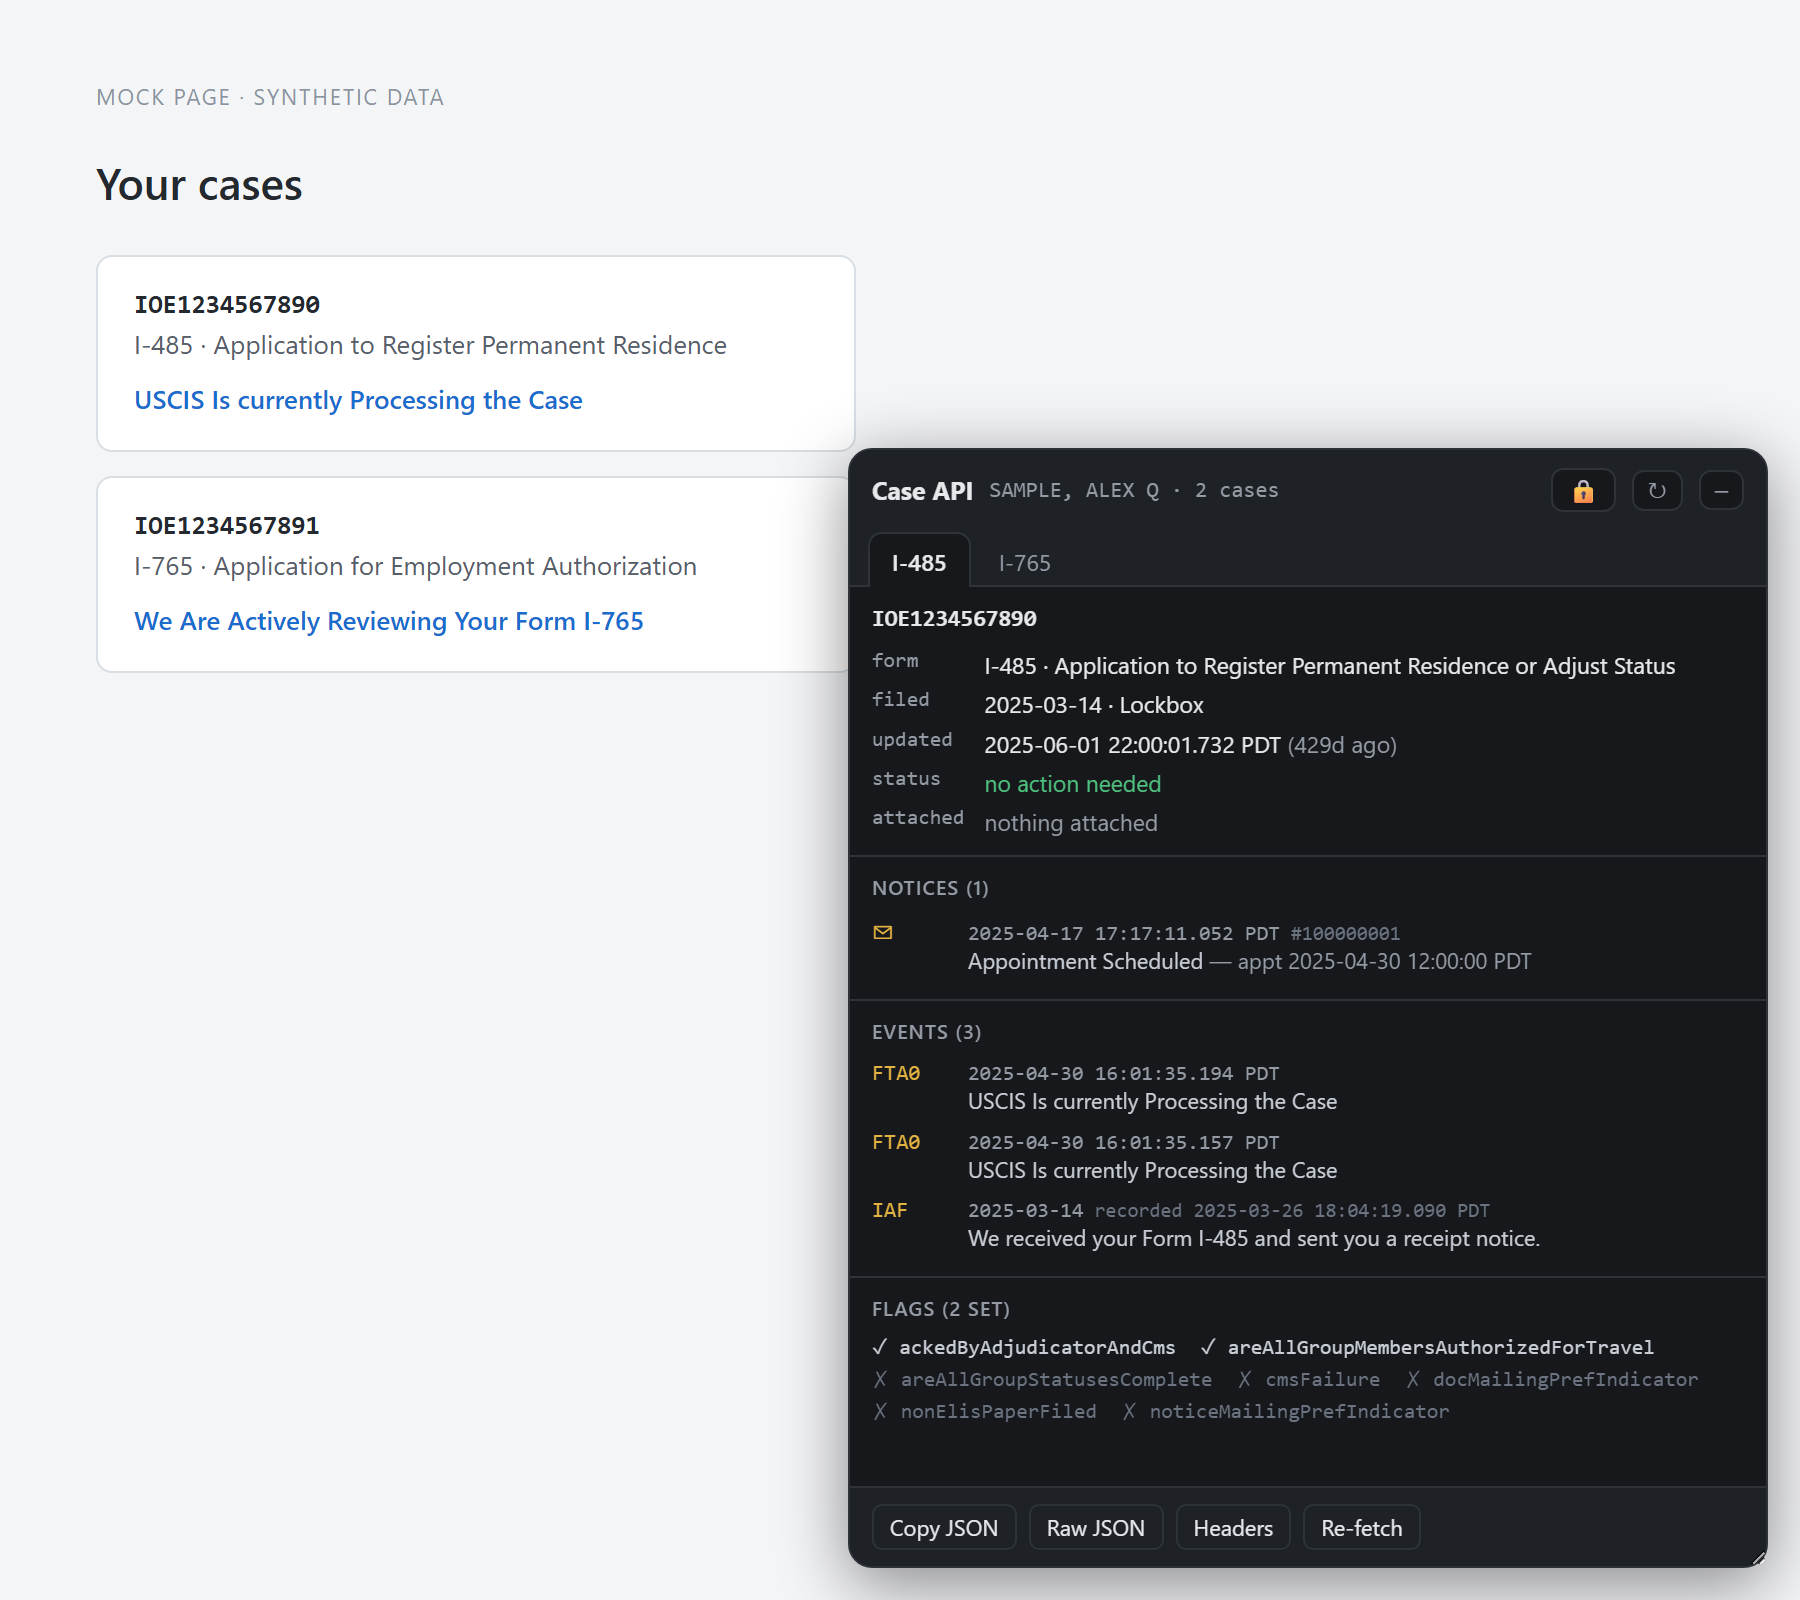
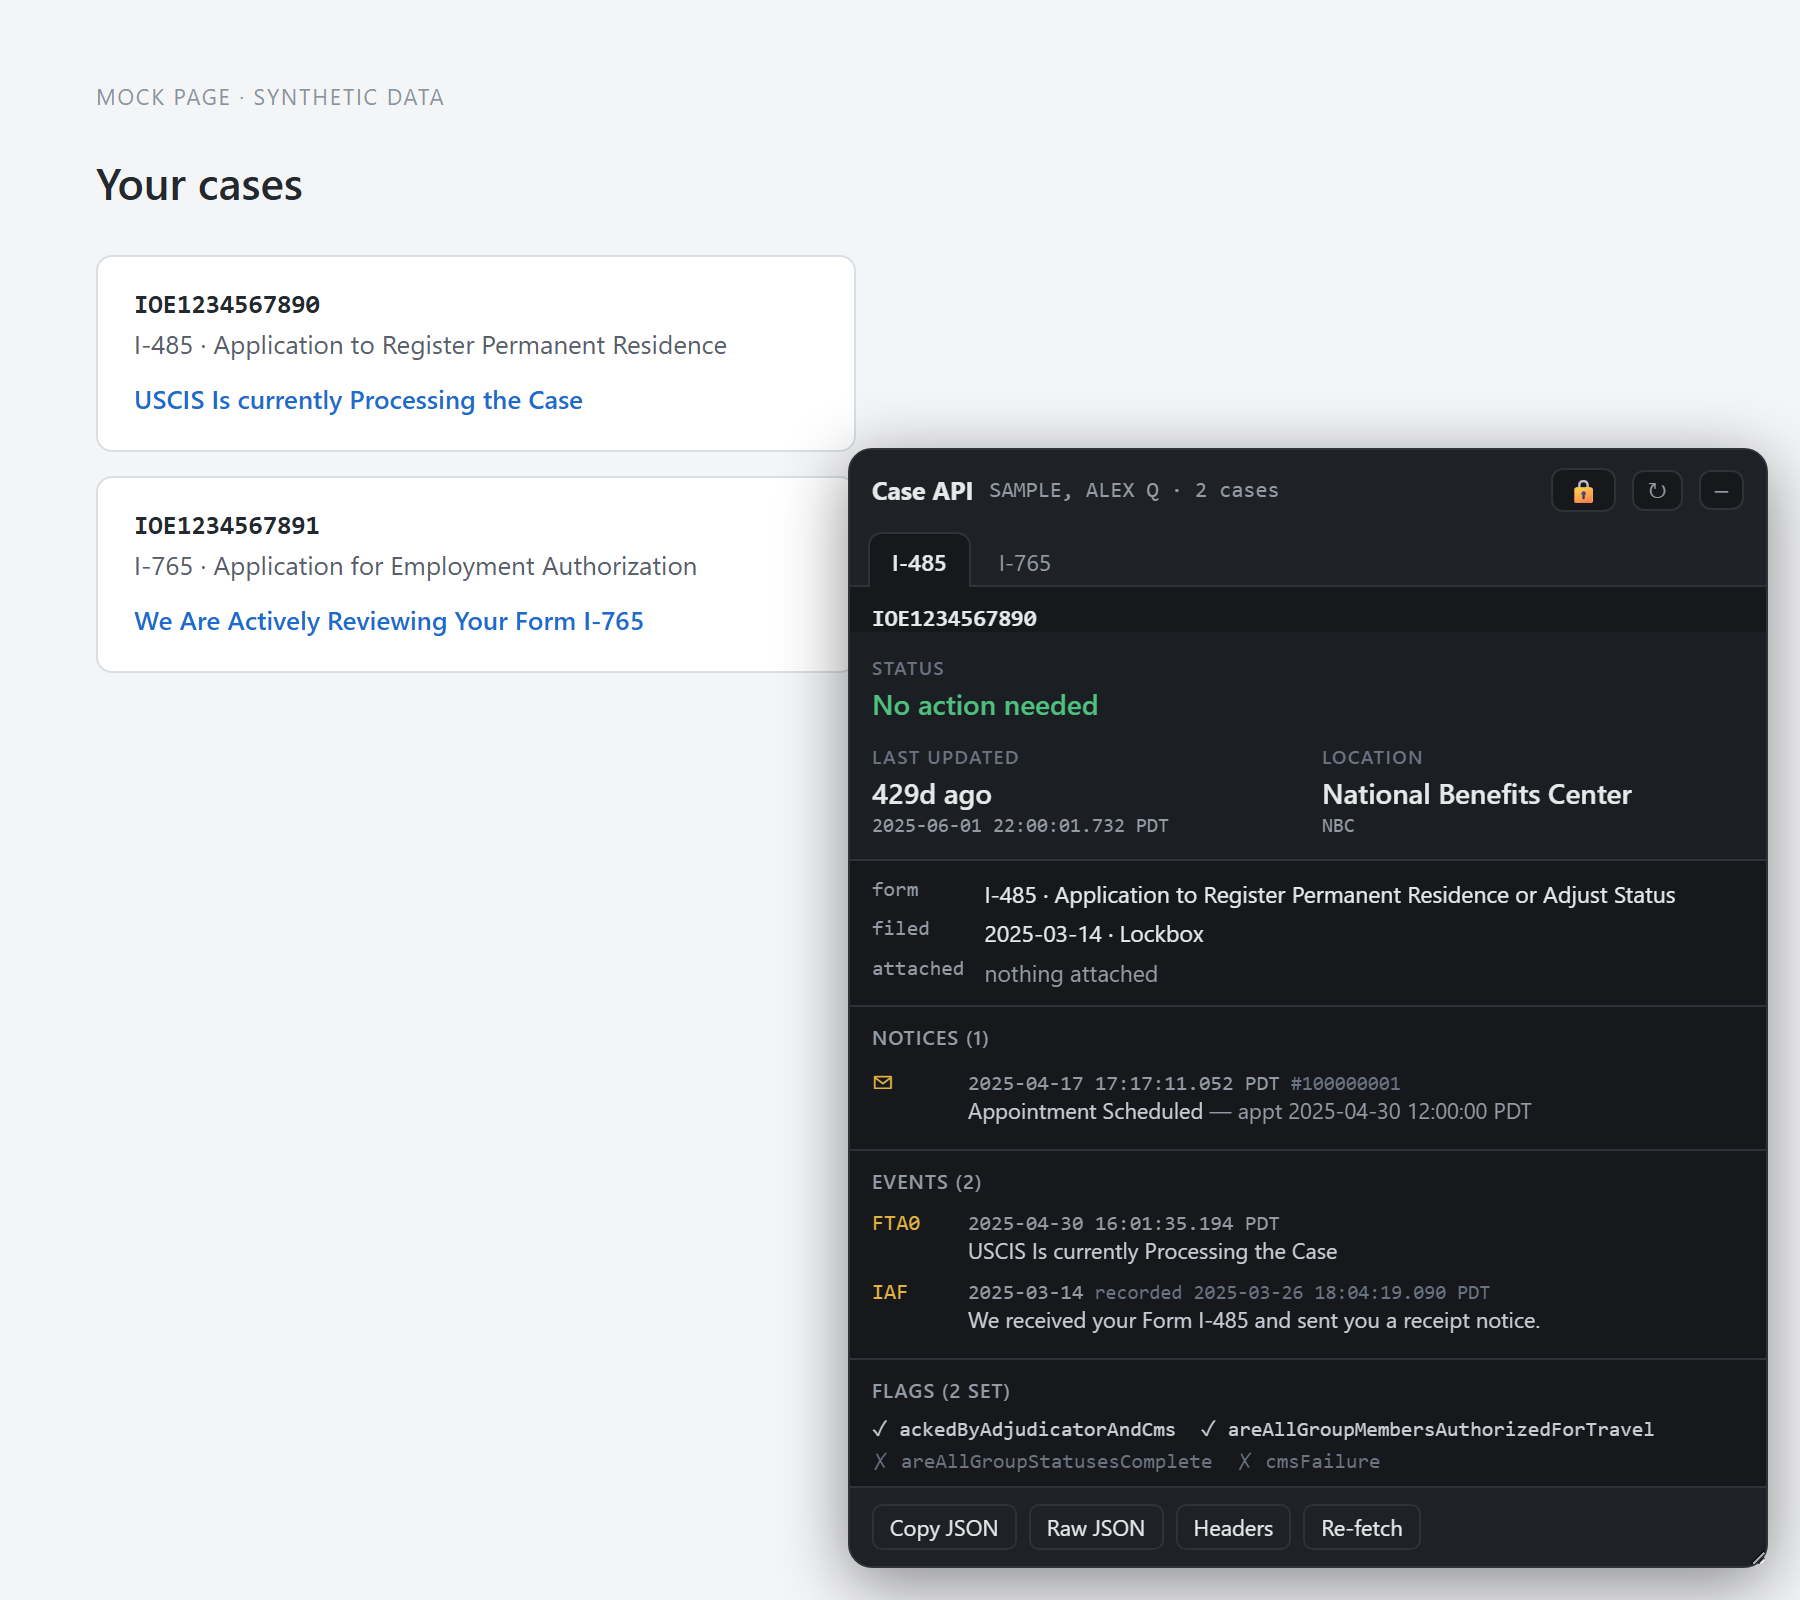
Add case location and promote the three headline fields
/cases carries no location. case_status does, as jurisdiction and
jurisdictionDescription, and the page fetches it anyway - so mine the office
from there alongside the existing action-code labels, keyed per receipt.

Status, Last updated and Location now sit in their own block above the detail
grid at 14px rather than as rows among many:

- Status leads with plain wording and colour, with closed/premium beneath
- Last updated leads with the relative age, exact timestamp beneath
- Location shows the title-cased office name with its code beneath

Location is omitted entirely when the payload has no jurisdiction, and Last
updated spans the full width in that case rather than leaving a gap.

Changed region(s): [[0.4667, 0.4062, 0.9333, 0.9375], [0.4667, 0.75, 0.4978, 0.7812]]

diff --git a/panel.js b/panel.js
@@ -135,6 +135,24 @@
       }
       .st.bad { color: #ff7b72; background: rgba(255,123,114,.12); }
 
+      .keyfacts {
+        display: grid; grid-template-columns: 1fr 1fr; gap: 11px 14px;
+        padding: 11px; border-bottom: 1px solid #2e333a; background: #1b1e23;
+      }
+      .kf { min-width: 0; }
+      .kf.wide { grid-column: 1 / -1; }
+      .kf .k {
+        font: 600 9.5px system-ui, sans-serif; letter-spacing: .07em;
+        text-transform: uppercase; color: #6b7480; margin-bottom: 3px;
+      }
+      .kf .v { font-size: 14px; font-weight: 600; color: #e6e8ea; line-height: 1.25; }
+      .kf .v.good { color: #4fc07d; }
+      .kf .v.warn { color: #e3b341; }
+      .kf .sub {
+        font: 10px ui-monospace, Consolas, monospace; color: #949ba5; margin-top: 2px;
+        overflow-wrap: anywhere;
+      }
+
       .kv {
         display: grid; grid-template-columns: auto 1fr; gap: 3px 10px;
         margin: 0; padding: 8px 11px; font-size: 11.5px;
@@ -212,6 +230,70 @@
     return n;
   };
 
+  // The three things people actually check — whether anything is needed from
+  // them, how long since the case moved, and which office holds it — get their
+  // own block above the detail grid rather than being one row among many.
+  function keyFacts(s) {
+    const wrap = el("div", "keyfacts");
+
+    // Tone is passed explicitly rather than inferred from the class string —
+    // inferring it silently lost the colour as soon as a layout class was added.
+    const cell = ({ cls = "", label, value, sub, title, tone = "" }) => {
+      const c = el("div", `kf ${cls}`.trim());
+      c.appendChild(el("div", "k", label));
+      c.appendChild(el("div", `v ${tone}`.trim(), value));
+      if (sub) c.appendChild(el("div", "sub", sub));
+      if (title) c.title = title;
+      return c;
+    };
+
+    const extras = [];
+    if (s.closed) extras.push("closed");
+    if (s.premium) extras.push("premium processing");
+    wrap.appendChild(
+      cell({
+        cls: "wide",
+        label: "Status",
+        value: s.actionRequired ? "Action required" : "No action needed",
+        sub: extras.join(" · "),
+        tone: s.actionRequired ? "warn" : "good",
+      })
+    );
+
+    const office = codes.office(s.receipt);
+    const hasOffice = !!(office && (office.name || office.code));
+
+    if (s.updated) {
+      const exact = F.stamp(s.updatedStamp) || s.updated;
+      const ago = F.daysAgo(s.updatedStamp || s.updated);
+      wrap.appendChild(
+        cell({
+          cls: hasOffice ? "" : "wide",
+          label: "Last updated",
+          value: ago || exact,
+          sub: ago ? exact : "",
+          title: s.updatedStamp || "",
+        })
+      );
+    }
+
+    // /cases carries no location; the office comes from case_status, which the
+    // page fetches anyway.
+    if (hasOffice) {
+      wrap.appendChild(
+        cell({
+          cls: s.updated ? "" : "wide",
+          label: "Location",
+          value: office.name || office.code,
+          sub: office.name && office.code ? office.code : "",
+          title: office.raw,
+        })
+      );
+    }
+
+    return wrap;
+  }
+
   function kvBlock(s) {
     const dl = el("dl", "kv");
     const add = (k, node) => {
@@ -230,21 +312,6 @@
       if (s.filedStamp) dd.title = s.filedStamp;
       add("filed", dd);
     }
-    if (s.updated) {
-      const dd = el("dd", null, F.stamp(s.updatedStamp) || s.updated);
-      const ago = F.daysAgo(s.updatedStamp || s.updated);
-      if (ago) dd.appendChild(el("span", "dim", `  (${ago})`));
-      if (s.updatedStamp) dd.title = s.updatedStamp;
-      add("updated", dd);
-    }
-
-    const flags = el("dd");
-    flags.appendChild(
-      el("span", s.actionRequired ? "warn" : "good", s.actionRequired ? "action required" : "no action needed")
-    );
-    if (s.closed) flags.appendChild(el("span", "dim", " · closed"));
-    if (s.premium) flags.appendChild(el("span", "dim", " · premium"));
-    add("status", flags);
 
     const c = s.counts;
     const bits = [];
@@ -410,6 +477,7 @@
     body.appendChild(chead);
 
     if (s) {
+      body.appendChild(keyFacts(s));
       body.appendChild(kvBlock(s));
       const n = noticesBlock(s);
       if (n) body.appendChild(n);

diff --git a/format.js b/format.js
@@ -102,17 +102,34 @@ globalThis.USCISFmt = (() => {
     return `${days}d ago`;
   };
 
-  // USCIS ships the human wording for its own action codes inside case_status —
-  // currentActionCode/statusTitle and historicalCaseStatuses[].actionCode. Mine
-  // those so the raw eventCodes in /cases can be labelled without guesswork.
-  // case_status itself is never displayed; it's only a source of receipts and
-  // of these labels.
+  // Office names arrive shouting ("NATIONAL BENEFITS CENTER"). Title-case the
+  // words but leave short tokens alone so centre codes like NBC or TSC survive.
+  const SMALL_WORDS = new Set(["of", "the", "and", "for", "at", "in", "on"]);
+  const titleCase = (s) =>
+    String(s)
+      .toLowerCase()
+      .split(/\s+/)
+      .filter(Boolean)
+      .map((w, i) => {
+        if (SMALL_WORDS.has(w)) return i === 0 ? w[0].toUpperCase() + w.slice(1) : w;
+        if (w.length <= 3) return w.toUpperCase();
+        return w[0].toUpperCase() + w.slice(1);
+      })
+      .join(" ");
+
+  // case_status is never displayed, but it is the only place two things live:
+  //   * the human wording for USCIS's own action codes (currentActionCode /
+  //     statusTitle, and historicalCaseStatuses[].actionCode / statusTitle), so
+  //     the raw eventCodes in /cases can be labelled without guesswork
+  //   * jurisdiction / jurisdictionDescription — the office handling the case,
+  //     which /cases does not return at all
   //
-  // Keyed per receipt as well as globally: the same code can carry form-specific
-  // wording, and a single flat map would let one case's text overwrite another's.
+  // Labels are keyed per receipt as well as globally: the same code can carry
+  // form-specific wording, and a flat map would let one case overwrite another.
   const codeMapFrom = (captures) => {
     const byReceipt = {};
     const byCode = {};
+    const offices = {};
     for (const c of captures || []) {
       if (!/\/case_status\//.test(c.url || "")) continue;
       const d = unwrap(c.body);
@@ -125,11 +142,20 @@ globalThis.USCISFmt = (() => {
       };
       put(d.currentActionCode, d.statusTitle);
       for (const h of d.historicalCaseStatuses || []) put(h.actionCode, h.statusTitle);
+
+      if (rn && (d.jurisdiction || d.jurisdictionDescription)) {
+        offices[rn] = {
+          code: d.jurisdiction || "",
+          name: d.jurisdictionDescription ? titleCase(d.jurisdictionDescription) : "",
+          raw: d.jurisdictionDescription || d.jurisdiction || "",
+        };
+      }
     }
     return {
       byReceipt,
       byCode,
       label: (receipt, code) => (byReceipt[receipt] && byReceipt[receipt][code]) || byCode[code] || "",
+      office: (receipt) => offices[receipt] || null,
     };
   };
 
@@ -289,6 +315,7 @@ globalThis.USCISFmt = (() => {
     unwrap,
     daysAgo,
     stamp,
+    titleCase,
     codeMapFrom,
     eventRows,
     summarize,

diff --git a/README.md b/README.md
@@ -40,9 +40,20 @@ The panel finds your cases on its own — you don't have to tell it anything.
 
 ### What each case shows
 
+Three things sit at the top, in larger type, because they're what you actually
+check:
+
+| | |
+| --- | --- |
+| **Status** | Whether anything is needed from you |
+| **Last updated** | How long since the record changed, with the exact time beneath |
+| **Location** | The USCIS office handling the case (e.g. National Benefits Center) |
+
+Then the rest:
+
 | Section | What's in it |
 | --- | --- |
-| **Summary** | Form type and full name, when you filed, when the record last changed, and whether anything is needed from you |
+| **Details** | Form type and full name, and when you filed |
 | **Notices** | Letters USCIS generated, including appointment dates |
 | **Events** | The internal history of the case, newest first |
 | **Flags** | Yes/no markers USCIS tracks internally |
